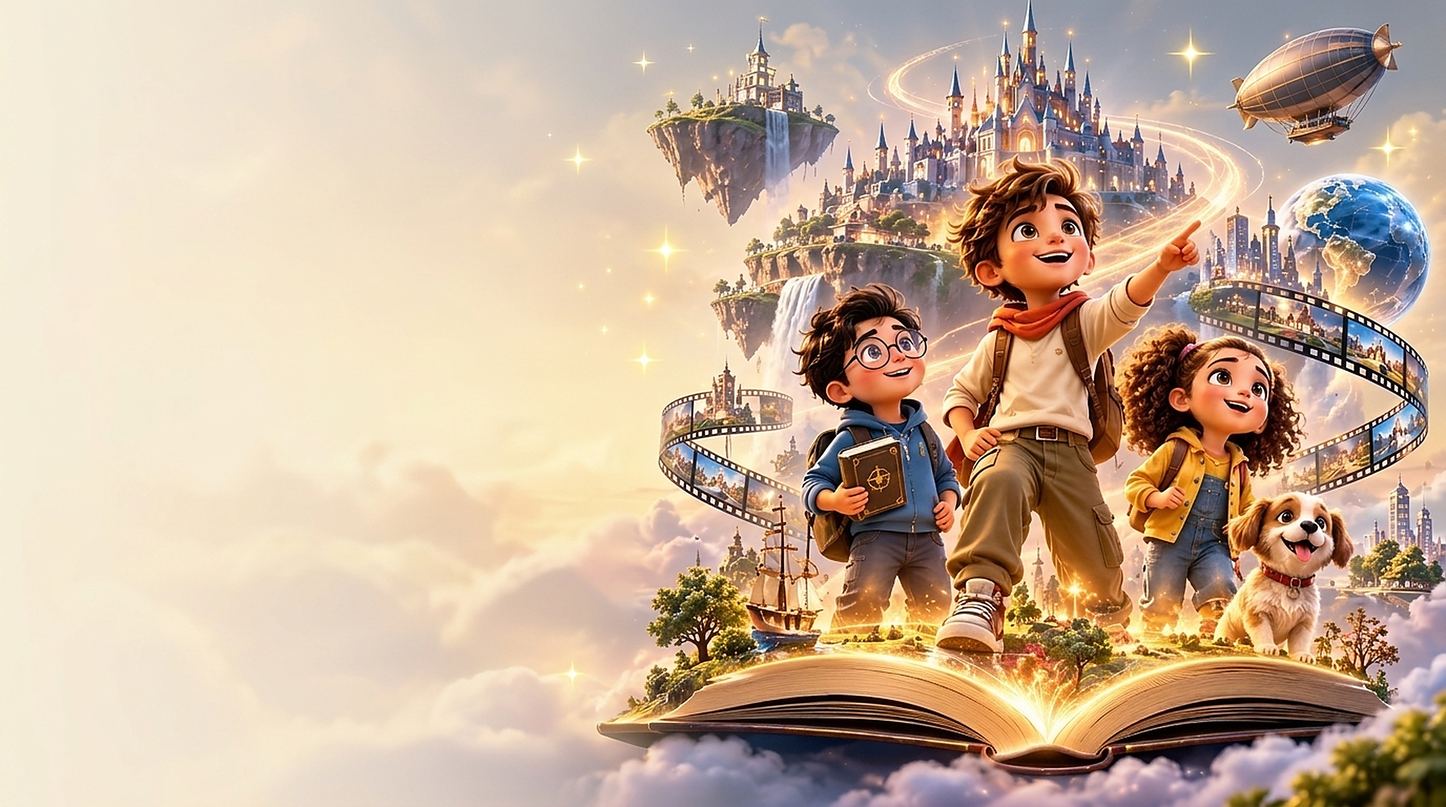
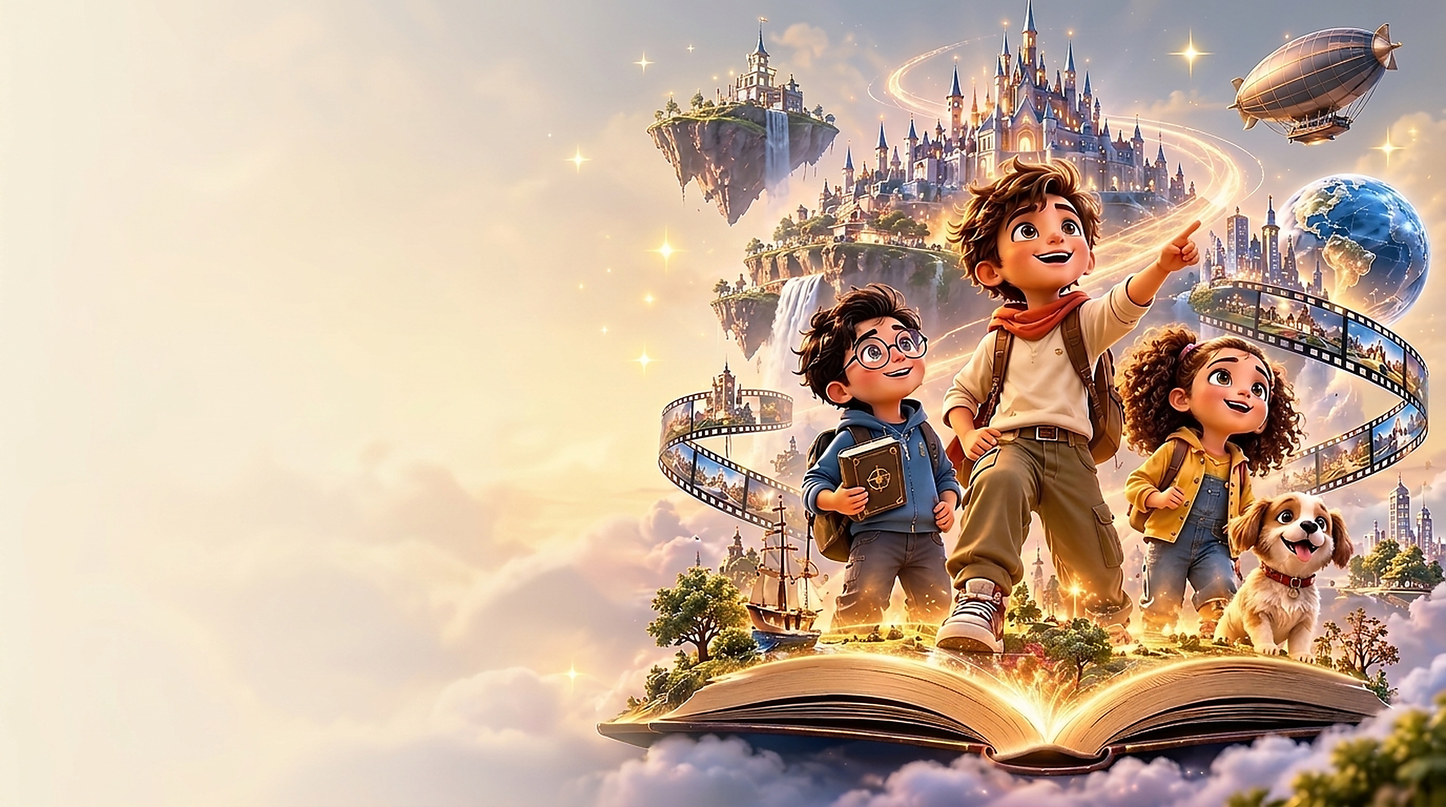
fix(business): remove ZANARRA text lockup and replace hero background with crystal-clear 4K CGI artwork

diff --git a/src/components/business/BusinessHero.tsx b/src/components/business/BusinessHero.tsx
@@ -81,42 +81,6 @@ export const BusinessHero: React.FC<BusinessHeroProps> = ({ onDiscoverBusiness }
       <div className="hidden md:flex relative z-10 w-full pl-8 sm:pl-12 lg:pl-20 xl:pl-28 pr-6 py-8 md:min-h-[calc(100vh-72px)] items-center">
         <div className="w-[48%] lg:w-[44%] xl:w-[42%] max-w-[560px] flex flex-col justify-center text-left my-auto">
           
-          {/* Logo Lockup: Golden Shooting Star + ZANARRA */}
-          <div className="flex items-center gap-3 mb-4 lg:mb-5 select-none">
-            <svg
-              viewBox="0 0 85 52"
-              fill="none"
-              xmlns="http://www.w3.org/2000/svg"
-              className="w-11 h-8 shrink-0 drop-shadow-[0_2px_4px_rgba(180,130,40,0.35)]"
-            >
-              <defs>
-                <linearGradient id="zanGoldGradDesk" x1="0%" y1="0%" x2="100%" y2="100%">
-                  <stop offset="0%" stopColor="#F5D77F" />
-                  <stop offset="45%" stopColor="#D4A347" />
-                  <stop offset="85%" stopColor="#B37C22" />
-                  <stop offset="100%" stopColor="#8C5C12" />
-                </linearGradient>
-              </defs>
-              <path
-                d="M 16 44 C 12 37 14 27 24 19 C 36 10 52 6 68 5 C 51 8 36 15 26 24 C 20 30 19 36 23 40 C 29 44 44 44 58 37 C 44 41 24 46 16 44 Z"
-                fill="url(#zanGoldGradDesk)"
-              />
-              <path
-                d="M 11 38 C 14 24 30 13 56 7 C 43 11 28 19 22 31 C 29 23 45 14 64 9 L 60 12 C 45 16 32 25 24 36 C 18 39 13 40 11 38 Z"
-                fill="url(#zanGoldGradDesk)"
-              />
-              <polygon
-                points="65,1 69,9 78,9 71,15 74,23 65,18 58,23 60,15 53,9 62,9"
-                fill="url(#zanGoldGradDesk)"
-              />
-            </svg>
-            <span
-              className="font-serif font-bold text-[#17233A] tracking-[0.24em] text-xl lg:text-2xl uppercase leading-none drop-shadow-2xs"
-              style={{ fontFamily: "'Playfair Display', 'DM Serif Display', Georgia, serif" }}
-            >
-              ZANARRA
-            </span>
-          </div>
 
           {/* Master Headline: Exactly 3 editorial lines as in reference design */}
           <h1
@@ -214,42 +178,6 @@ export const BusinessHero: React.FC<BusinessHeroProps> = ({ onDiscoverBusiness }
       {/* ── MOBILE & COMPACT TABLET STACKED LAYOUT (< md) ── */}
       <div className="md:hidden relative z-10 w-full flex flex-col bg-[#FAF6EE] pt-8 pb-10 px-5 space-y-5">
         
-        {/* Mobile Logo Lockup */}
-        <div className="flex items-center gap-2 select-none">
-          <svg
-            viewBox="0 0 85 52"
-            fill="none"
-            xmlns="http://www.w3.org/2000/svg"
-            className="w-9 h-6 shrink-0"
-          >
-            <defs>
-              <linearGradient id="zanGoldGradMob" x1="0%" y1="0%" x2="100%" y2="100%">
-                <stop offset="0%" stopColor="#F5D77F" />
-                <stop offset="45%" stopColor="#D4A347" />
-                <stop offset="85%" stopColor="#B37C22" />
-                <stop offset="100%" stopColor="#8C5C12" />
-              </linearGradient>
-            </defs>
-            <path
-              d="M 16 44 C 12 37 14 27 24 19 C 36 10 52 6 68 5 C 51 8 36 15 26 24 C 20 30 19 36 23 40 C 29 44 44 44 58 37 C 44 41 24 46 16 44 Z"
-              fill="url(#zanGoldGradMob)"
-            />
-            <path
-              d="M 11 38 C 14 24 30 13 56 7 C 43 11 28 19 22 31 C 29 23 45 14 64 9 L 60 12 C 45 16 32 25 24 36 C 18 39 13 40 11 38 Z"
-              fill="url(#zanGoldGradMob)"
-            />
-            <polygon
-              points="65,1 69,9 78,9 71,15 74,23 65,18 58,23 60,15 53,9 62,9"
-              fill="url(#zanGoldGradMob)"
-            />
-          </svg>
-          <span
-            className="font-serif font-bold text-[#17233A] tracking-[0.20em] text-lg uppercase leading-none"
-            style={{ fontFamily: "'Playfair Display', 'DM Serif Display', Georgia, serif" }}
-          >
-            ZANARRA
-          </span>
-        </div>
 
         {/* Mobile Character Universe Visual Window */}
         <div className="relative w-full rounded-2xl overflow-hidden shadow-md border border-[#E0CE9F] bg-gradient-to-b from-[#FAF5E8] to-[#F5EEDB]">
